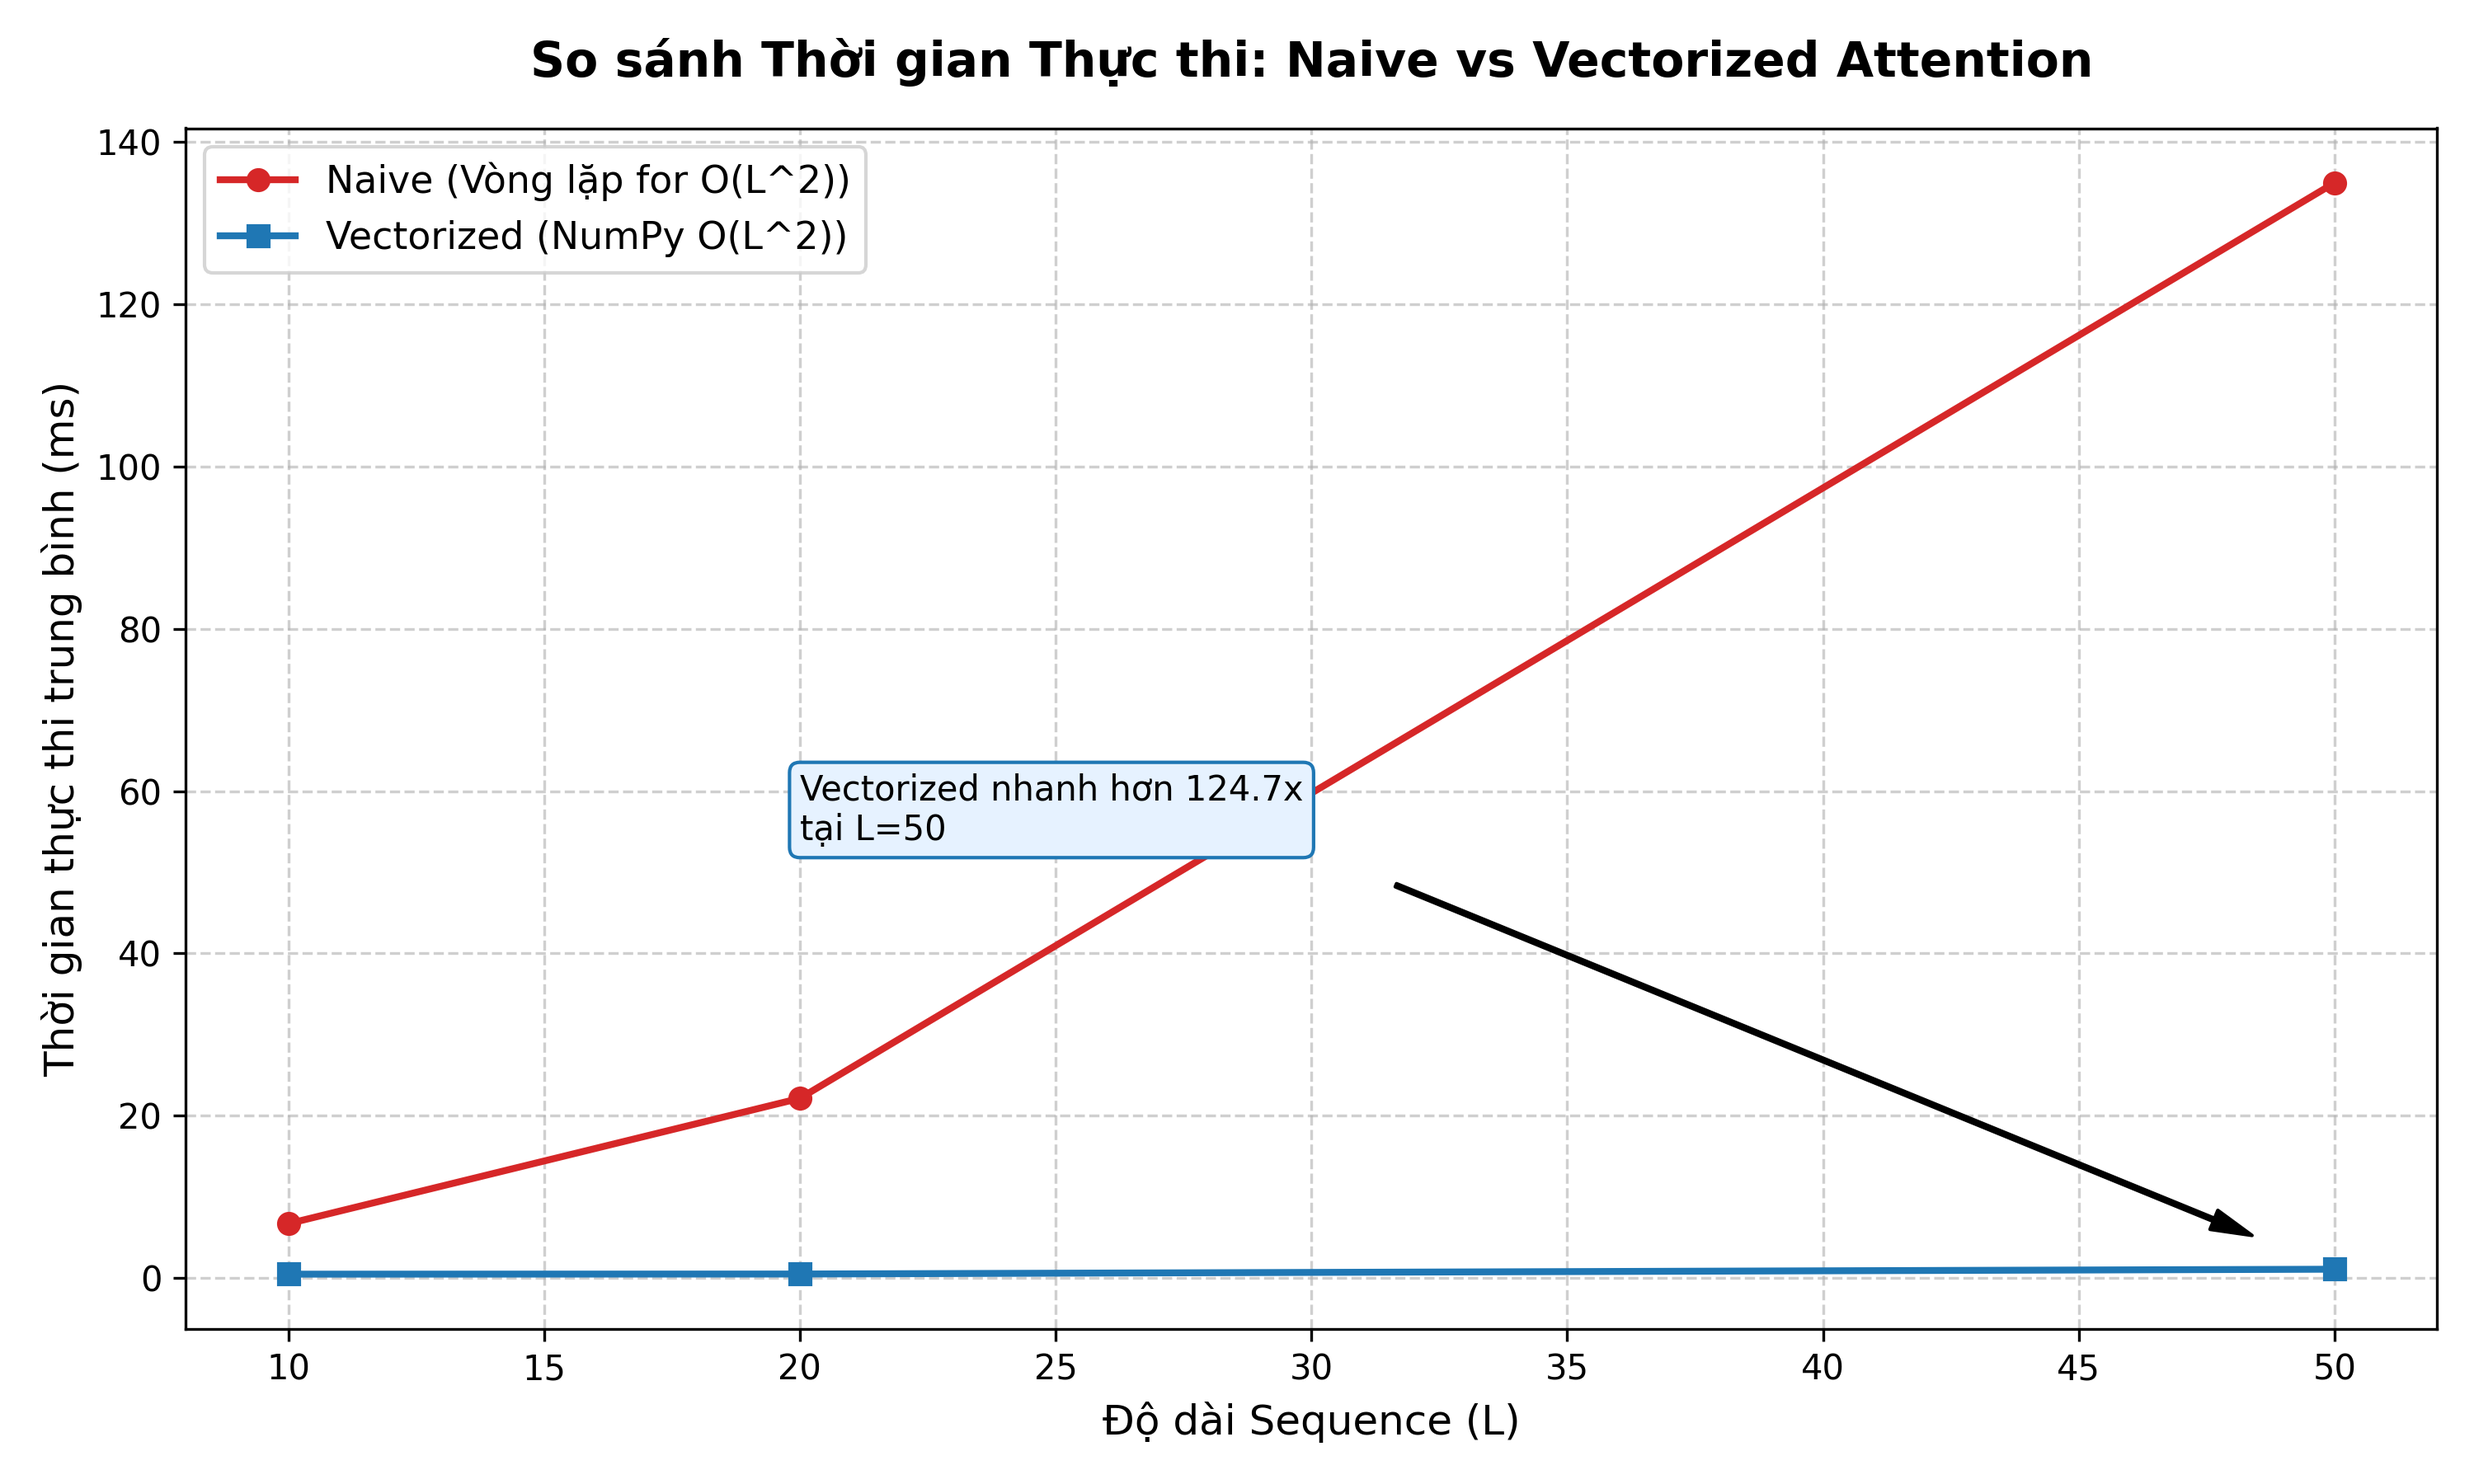
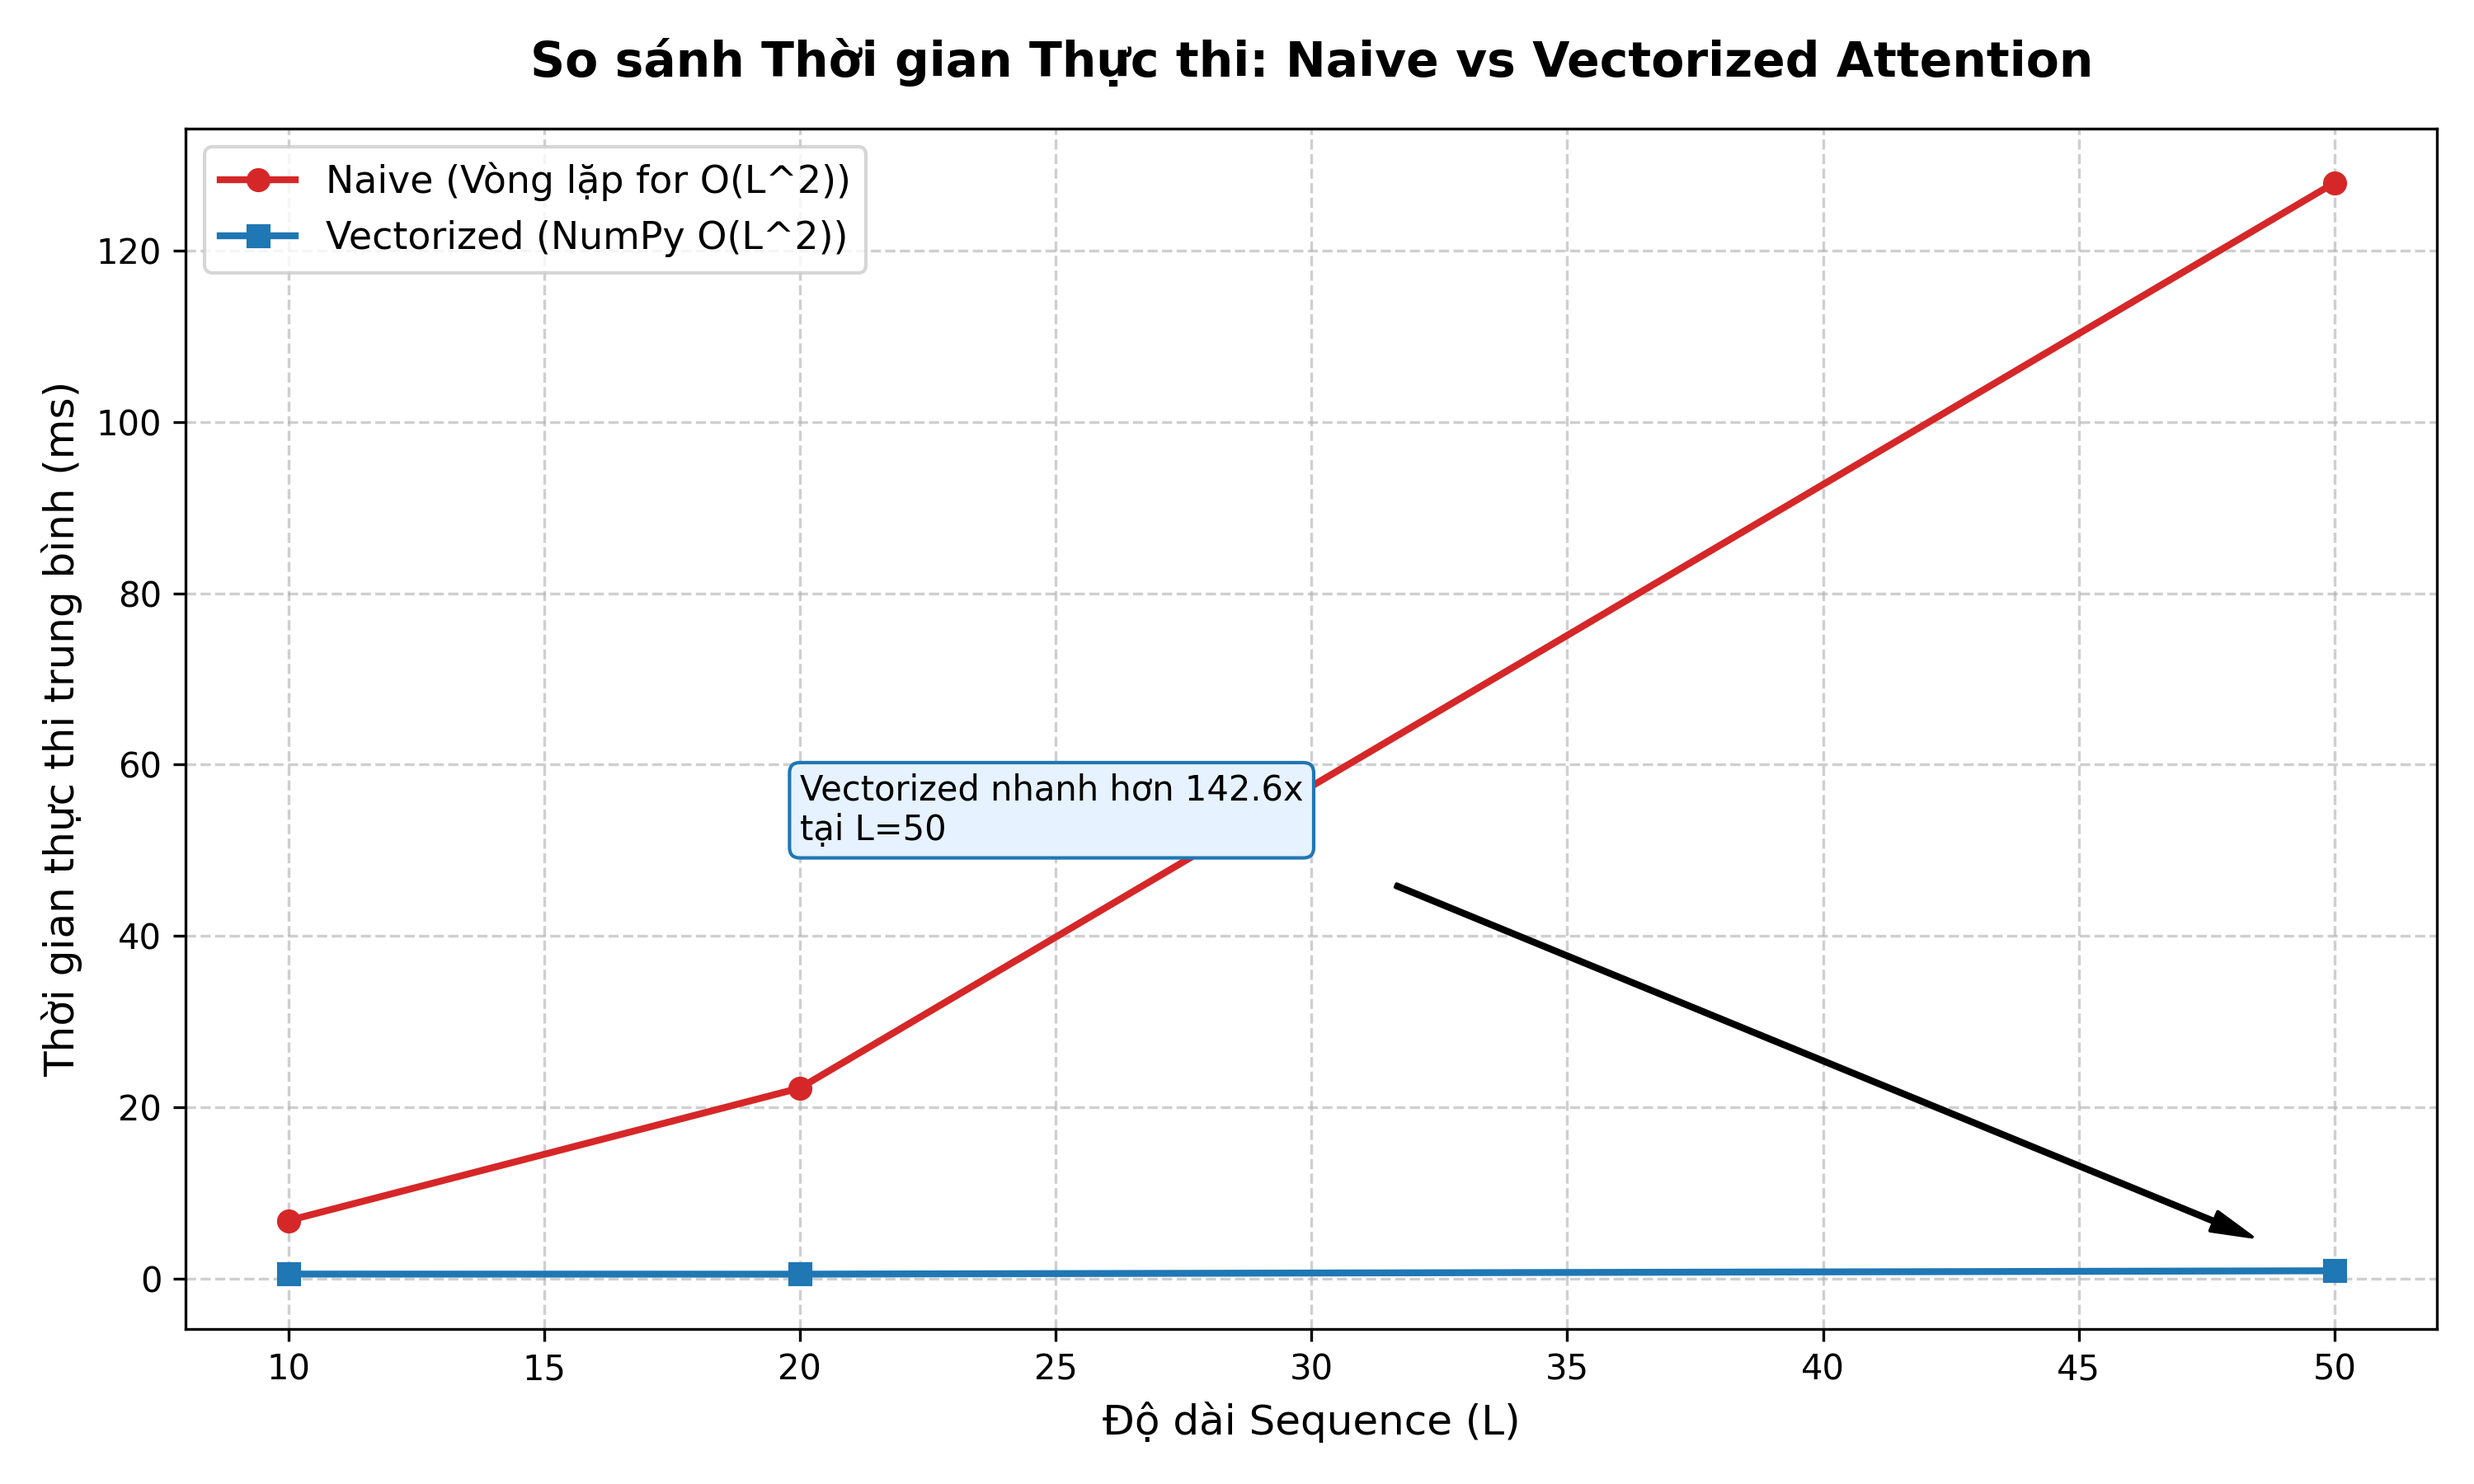
refactor: generalize attention mask functions to support both 3D and 4D target shapes

diff --git a/experiments/benchmark.py b/experiments/benchmark.py
@@ -35,22 +35,37 @@ def _build_valid_mask(mask, causal, target_shape):
         causal = causal or bool(mask)
         mask = None
 
-    batch_size, num_heads, query_len, key_len = target_shape
     valid_mask = np.ones(target_shape, dtype=bool)
 
-    if causal:
-        causal_mask = np.tril(np.ones((query_len, key_len), dtype=bool))
-        valid_mask &= causal_mask[np.newaxis, np.newaxis, :, :]
+    if len(target_shape) == 4:
+        batch_size, num_heads, query_len, key_len = target_shape
+        if causal:
+            causal_mask = np.tril(np.ones((query_len, key_len), dtype=bool))
+            valid_mask &= causal_mask[np.newaxis, np.newaxis, :, :]
 
-    if mask is not None:
-        mask = np.asarray(mask, dtype=bool)
-        if mask.ndim == 2 and mask.shape == (batch_size, key_len):
-            mask = mask[:, np.newaxis, np.newaxis, :]
-        elif mask.ndim == 2 and mask.shape == (query_len, key_len):
-            mask = mask[np.newaxis, np.newaxis, :, :]
-        elif mask.ndim == 3 and mask.shape == (batch_size, query_len, key_len):
-            mask = mask[:, np.newaxis, :, :]
-        valid_mask &= np.broadcast_to(mask, target_shape)
+        if mask is not None:
+            mask = np.asarray(mask, dtype=bool)
+            if mask.ndim == 2 and mask.shape == (batch_size, key_len):
+                mask = mask[:, np.newaxis, np.newaxis, :]
+            elif mask.ndim == 2 and mask.shape == (query_len, key_len):
+                mask = mask[np.newaxis, np.newaxis, :, :]
+            elif mask.ndim == 3 and mask.shape == (batch_size, query_len, key_len):
+                mask = mask[:, np.newaxis, :, :]
+            valid_mask &= np.broadcast_to(mask, target_shape)
+            
+    elif len(target_shape) == 3:
+        batch_size, query_len, key_len = target_shape
+        if causal:
+            causal_mask = np.tril(np.ones((query_len, key_len), dtype=bool))
+            valid_mask &= causal_mask[np.newaxis, :, :]
+
+        if mask is not None:
+            mask = np.asarray(mask, dtype=bool)
+            if mask.ndim == 2 and mask.shape == (batch_size, key_len):
+                mask = mask[:, np.newaxis, :]
+            elif mask.ndim == 2 and mask.shape == (query_len, key_len):
+                mask = mask[np.newaxis, :, :]
+            valid_mask &= np.broadcast_to(mask, target_shape)
 
     return valid_mask
 

diff --git a/attention/scaled_dot_product.py b/attention/scaled_dot_product.py
@@ -18,22 +18,29 @@ def _expand_attention_mask(mask, target_shape):
     Chuẩn hóa mask về shape có thể broadcast với scores.
 
     Quy ước: True = vị trí được phép attention, False = vị trí bị che.
-    Hỗ trợ các shape phổ biến:
+    Hỗ trợ các shape phổ biến cho cả 3D (batch_size, query_len, key_len) 
+    và 4D (batch_size, num_heads, query_len, key_len):
     - (batch_size, key_len): padding mask cho key/value
     - (query_len, key_len): mask chung cho mọi batch/head
     - (batch_size, query_len, key_len): mask riêng cho từng batch
-    - shape đã broadcast được với (batch, heads, query_len, key_len)
     """
     mask = np.asarray(mask, dtype=bool)
-    batch_size, _, query_len, key_len = target_shape
-
-    if mask.ndim == 2 and mask.shape == (batch_size, key_len):
-        mask = mask[:, np.newaxis, np.newaxis, :]
-    elif mask.ndim == 2 and mask.shape == (query_len, key_len):
-        mask = mask[np.newaxis, np.newaxis, :, :]
-    elif mask.ndim == 3 and mask.shape == (batch_size, query_len, key_len):
-        mask = mask[:, np.newaxis, :, :]
-
+    
+    if len(target_shape) == 4:
+        batch_size, _, query_len, key_len = target_shape
+        if mask.ndim == 2 and mask.shape == (batch_size, key_len):
+            mask = mask[:, np.newaxis, np.newaxis, :]
+        elif mask.ndim == 2 and mask.shape == (query_len, key_len):
+            mask = mask[np.newaxis, np.newaxis, :, :]
+        elif mask.ndim == 3 and mask.shape == (batch_size, query_len, key_len):
+            mask = mask[:, np.newaxis, :, :]
+    elif len(target_shape) == 3:
+        batch_size, query_len, key_len = target_shape
+        if mask.ndim == 2 and mask.shape == (batch_size, key_len):
+            mask = mask[:, np.newaxis, :]
+        elif mask.ndim == 2 and mask.shape == (query_len, key_len):
+            mask = mask[np.newaxis, :, :]
+    
     try:
         return np.broadcast_to(mask, target_shape)
     except ValueError as exc:
